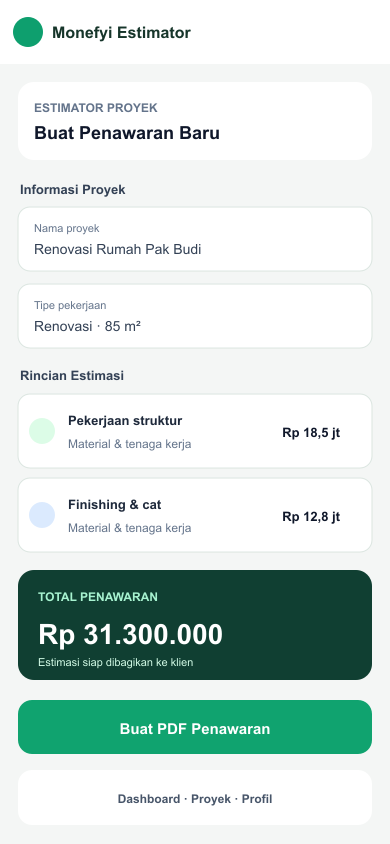
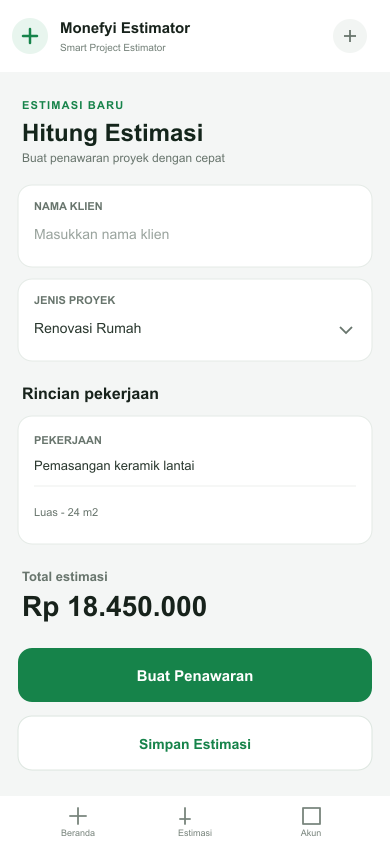
d

diff --git a/PlannerLP2/src/app/admin/relink-popup/page.tsx b/PlannerLP2/src/app/admin/relink-popup/page.tsx
@@ -1,0 +1,96 @@
+"use client";
+
+import { useState } from "react";
+import { Save } from "lucide-react";
+import { useContentStore } from "@/lib/store/contentStore";
+
+export default function RelinkPopupAdminPage() {
+  const { content, updateSection, publishContent, isSaving, publishError, dbSynced } = useContentStore();
+  const [config, setConfig] = useState(content.relinkPopup);
+  const [saved, setSaved] = useState(false);
+
+  const save = async () => {
+    updateSection("relinkPopup", config);
+    const didSave = await publishContent();
+    if (didSave) {
+      setSaved(true);
+      window.setTimeout(() => setSaved(false), 2500);
+    }
+  };
+
+  return (
+    <div className="mx-auto max-w-3xl p-6 md:p-8">
+      <div className="mb-6 flex items-center justify-between gap-4">
+        <div>
+          <h1 className="text-2xl font-extrabold text-slate-900">Popup Relink</h1>
+          <p className="mt-1 text-sm text-slate-500">Atur pemicu popup coba gratis dan penawaran Estimator Standard.</p>
+        </div>
+        <button
+          type="button"
+          onClick={() => void save()}
+          disabled={isSaving}
+          className="inline-flex items-center gap-2 rounded-xl bg-emerald-600 px-4 py-2.5 text-sm font-semibold text-white hover:bg-emerald-700 disabled:opacity-50"
+        >
+          <Save className="h-4 w-4" />{saved ? "Tersimpan!" : isSaving ? "Menyimpan…" : "Simpan"}
+        </button>
+      </div>
+
+      <section className="space-y-5 rounded-2xl border border-slate-200 bg-white p-6 shadow-sm">
+        <div className="flex items-center justify-between gap-4">
+          <div>
+            <h2 className="font-bold text-slate-900">Aktifkan popup relink</h2>
+            <p className="mt-1 text-sm text-slate-500">Muncul saat pengunjung hendak kembali/keluar atau tidak aktif.</p>
+          </div>
+          <button
+            type="button"
+            role="switch"
+            aria-checked={config.enabled}
+            onClick={() => setConfig((prev) => ({ ...prev, enabled: !prev.enabled }))}
+            className={`rounded-xl px-4 py-2 text-sm font-semibold ${config.enabled ? "bg-emerald-100 text-emerald-700" : "bg-slate-100 text-slate-600"}`}
+          >
+            {config.enabled ? "Aktif" : "Nonaktif"}
+          </button>
+        </div>
+
+        <label className="block">
+          <span className="mb-1.5 block text-xs font-bold uppercase tracking-wider text-slate-500">Waktu diam (menit)</span>
+          <input
+            type="number"
+            min={1}
+            max={120}
+            value={config.idleMinutes}
+            onChange={(event) => setConfig((prev) => ({ ...prev, idleMinutes: Math.max(1, Number(event.target.value) || 1) }))}
+            className="w-full rounded-xl border border-slate-200 px-3 py-2.5 text-sm focus:border-emerald-400 focus:outline-none"
+          />
+        </label>
+
+        {([
+          ["title", "Judul popup"],
+          ["body", "Deskripsi"],
+          ["freeCtaText", "Teks tombol coba gratis"],
+          ["purchaseCtaText", "Teks tombol beli (Standard Rp 99.000)"],
+        ] as const).map(([field, label]) => (
+          <label key={field} className="block">
+            <span className="mb-1.5 block text-xs font-bold uppercase tracking-wider text-slate-500">{label}</span>
+            {field === "body" ? (
+              <textarea
+                rows={4}
+                value={config[field]}
+                onChange={(event) => setConfig((prev) => ({ ...prev, [field]: event.target.value }))}
+                className="w-full resize-y rounded-xl border border-slate-200 px-3 py-2.5 text-sm focus:border-emerald-400 focus:outline-none"
+              />
+            ) : (
+              <input
+                value={config[field]}
+                onChange={(event) => setConfig((prev) => ({ ...prev, [field]: event.target.value }))}
+                className="w-full rounded-xl border border-slate-200 px-3 py-2.5 text-sm focus:border-emerald-400 focus:outline-none"
+              />
+            )}
+          </label>
+        ))}
+        {publishError && <p className="text-sm text-red-600">{publishError}</p>}
+        {!dbSynced && <p className="text-xs text-amber-700">Database belum tersambung. Perubahan bisa tersimpan hanya di browser ini.</p>}
+      </section>
+    </div>
+  );
+}

diff --git a/PlannerLP2/src/components/landing/FreeTrialPopup.tsx b/PlannerLP2/src/components/landing/FreeTrialPopup.tsx
@@ -14,12 +14,14 @@ import { useLandingCta } from "@/lib/hooks/useLandingCta";
 
 const STORAGE_KEY = "estimator_free_trial_popup_v1";
 const SUPPRESS_MS = 24 * 60 * 60 * 1000;
+const FREE_TRIAL_UNLOCK_MS = 30 * 60 * 1000;
 
 type Trigger = "exit_intent" | "back_button" | "idle";
 
 type StoredState = {
   dismissedAt?: number;
   convertedAt?: number;
+  freeTrialAt?: number;
 };
 
 function readStore(): StoredState {
@@ -43,6 +45,7 @@ function writeStore(patch: StoredState) {
 function isSuppressed(): boolean {
   const state = readStore();
   if (state.convertedAt) return true;
+  if (state.freeTrialAt && Date.now() - state.freeTrialAt < FREE_TRIAL_UNLOCK_MS) return true;
   return Boolean(state.dismissedAt && Date.now() - state.dismissedAt < SUPPRESS_MS);
 }
 
@@ -89,20 +92,19 @@ export function FreeTrialPopup() {
   }, [trigger]);
 
   const tryFreeApp = () => {
-    writeStore({ convertedAt: Date.now() });
+    writeStore({ freeTrialAt: Date.now() });
     trackEvent("free_trial_popup_cta", { source: trigger ?? "unknown" });
     trackEvent("free_signup", { source: `popup_${trigger ?? "unknown"}` });
     window.location.href = plannerAppPath("/app/estimator?plan=free");
   };
 
   const buyStandard = () => {
-    writeStore({ convertedAt: Date.now() });
     trackEvent("free_trial_popup_cta", { source: `purchase_${trigger ?? "unknown"}` });
     void startCheckout("estimator-standard");
   };
 
   useEffect(() => {
-    if (!eligible) return;
+    if (!eligible || open) return;
 
     const onMouseOut = (event: MouseEvent) => {
       if (event.clientY > 12 || event.relatedTarget != null) return;
@@ -122,7 +124,8 @@ export function FreeTrialPopup() {
       }
     };
 
-    window.history.pushState({ relinkPrompt: true }, "", window.location.href);
+    const previousHistoryState = window.history.state;
+    window.history.pushState({ ...previousHistoryState, relinkPrompt: true }, "", window.location.href);
     window.addEventListener("popstate", onBack);
     document.addEventListener("mouseout", onMouseOut);
     ["pointerdown", "keydown", "touchstart", "scroll"].forEach((eventName) => {
@@ -138,7 +141,7 @@ export function FreeTrialPopup() {
       });
       if (idleTimerRef.current !== null) window.clearTimeout(idleTimerRef.current);
     };
-  }, [config.idleMinutes, eligible, tryOpen]);
+  }, [config.idleMinutes, eligible, open, tryOpen]);
 
   useEffect(() => {
     if (!open) return;

diff --git a/PlannerLP2/src/components/shared/EditableImage.tsx b/PlannerLP2/src/components/shared/EditableImage.tsx
@@ -44,7 +44,7 @@ export function EditableImage({
 
   if (!isAdmin || !isEditMode) {
     if (!src) return null;
-    return <img src={src} alt={alt} className={cn("object-cover", className)} />;
+    return <img src={src} alt={alt} loading="lazy" decoding="async" className={cn("object-cover", className)} />;
   }
 
   const handleSave = () => {
@@ -57,7 +57,7 @@ export function EditableImage({
   return (
     <div className={cn("relative group cursor-pointer", className)}>
       {previewSrc ? (
-        <img src={previewSrc} alt={alt} className="w-full h-full object-cover" />
+        <img src={previewSrc} alt={alt} loading="lazy" decoding="async" className="w-full h-full object-cover" />
       ) : (
         <div className="w-full h-full min-h-[200px] bg-slate-100 flex flex-col items-center justify-center text-slate-400 gap-2">
           <ImageIcon className="w-10 h-10 opacity-50" />
@@ -131,7 +131,7 @@ export function EditableImage({
                         tempSrc === file.url ? "border-emerald-500 shadow-glow" : "border-transparent hover:border-slate-200"
                       )}
                     >
-                      <img src={file.url} alt={file.name} className="w-full h-full object-cover" />
+                      <img src={file.url} alt={file.name} loading="lazy" decoding="async" className="w-full h-full object-cover" />
                       {tempSrc === file.url && (
                         <div className="absolute inset-0 bg-emerald-500/20 flex items-center justify-center">
                           <Check className="w-8 h-8 text-white drop-shadow-lg" />
@@ -167,7 +167,7 @@ export function EditableImage({
                   />
                   <div className="aspect-video rounded-[24px] overflow-hidden border border-slate-100 shadow-inner bg-slate-50 flex items-center justify-center">
                     {tempSrc ? (
-                      <img src={tempSrc} alt="Preview" className="w-full h-full object-cover opacity-80" />
+                      <img src={tempSrc} alt="Preview" loading="lazy" decoding="async" className="w-full h-full object-cover opacity-80" />
                     ) : (
                       <p className="text-xs font-bold text-slate-400 px-4 text-center">Preview muncul setelah URL atau upload</p>
                     )}

diff --git a/PlannerLP2/src/components/landing/LandingPageSections.tsx b/PlannerLP2/src/components/landing/LandingPageSections.tsx
@@ -1,7 +1,38 @@
 "use client";
 
+import { useEffect, useRef, useState } from "react";
+import type { ComponentType } from "react";
 import { useContentStore } from "@/lib/store/contentStore";
-import { getSectionComponent, resolveSectionOrder } from "@/lib/landingSections";
+import { getSectionComponent, resolveSectionOrder, type LandingSectionKey } from "@/lib/landingSections";
+
+const EAGER_SECTIONS = new Set<LandingSectionKey>(["hero", "trustBadges"]);
+
+function DeferredSection({ Component }: { Component: ComponentType }) {
+  const sectionRef = useRef<HTMLDivElement>(null);
+  const [shouldRender, setShouldRender] = useState(false);
+
+  useEffect(() => {
+    const target = sectionRef.current;
+    if (!target) return;
+    const observer = new IntersectionObserver(
+      ([entry]) => {
+        if (entry.isIntersecting) {
+          setShouldRender(true);
+          observer.disconnect();
+        }
+      },
+      { rootMargin: "450px 0px" },
+    );
+    observer.observe(target);
+    return () => observer.disconnect();
+  }, []);
+
+  return (
+    <div ref={sectionRef} style={shouldRender ? undefined : { minHeight: "55vh" }} aria-hidden={!shouldRender}>
+      {shouldRender ? <Component /> : null}
+    </div>
+  );
+}
 
 export function LandingPageSections() {
   const { content } = useContentStore();
@@ -14,7 +45,7 @@ export function LandingPageSections() {
         if (visibility[key] === false) return null;
         const Section = getSectionComponent(key);
         if (!Section) return null;
-        return <Section key={key} />;
+        return EAGER_SECTIONS.has(key) ? <Section key={key} /> : <DeferredSection key={key} Component={Section} />;
       })}
     </>
   );

diff --git a/PlannerLP2/src/components/landing/HeroLiveDemo.tsx b/PlannerLP2/src/components/landing/HeroLiveDemo.tsx
@@ -23,10 +23,6 @@ export function HeroLiveDemo({ pulseToken = 0 }: { pulseToken?: number }) {
   useEffect(() => {
     const target = demoRef.current;
     if (!target) return;
-    if (!("IntersectionObserver" in window)) {
-      setShouldLoad(true);
-      return;
-    }
     const observer = new IntersectionObserver(
       ([entry]) => {
         if (entry.isIntersecting) {
@@ -84,7 +80,6 @@ export function HeroLiveDemo({ pulseToken = 0 }: { pulseToken?: number }) {
             width={390}
             height={844}
             loading="eager"
-            fetchPriority="high"
             className={`block border-0 transition-opacity duration-300 ${loaded ? "opacity-100" : "opacity-0"}`}
             style={{ width: 390, height: 844 }}
             onLoad={() => setLoaded(true)}

diff --git a/PlannerLP2/src/components/admin/Sidebar.tsx b/PlannerLP2/src/components/admin/Sidebar.tsx
@@ -38,6 +38,7 @@ const navItems = [
   { href: "/admin/kontak", icon: Phone, label: "Kontak & Sosial" },
   { href: "/admin/seo", icon: Search, label: "SEO & Tracking" },
   { href: "/admin/toast", icon: Bell, label: "Toast Notifikasi" },
+  { href: "/admin/relink-popup", icon: Sparkles, label: "Popup Relink" },
   { href: "/admin/faq", icon: HelpCircle, label: "FAQ Editor" },
   { href: "/admin/footer", icon: FileText, label: "Footer & Privasi" },
   { href: "/admin/konten", icon: PanelLeftOpen, label: "Konten Visual" },
